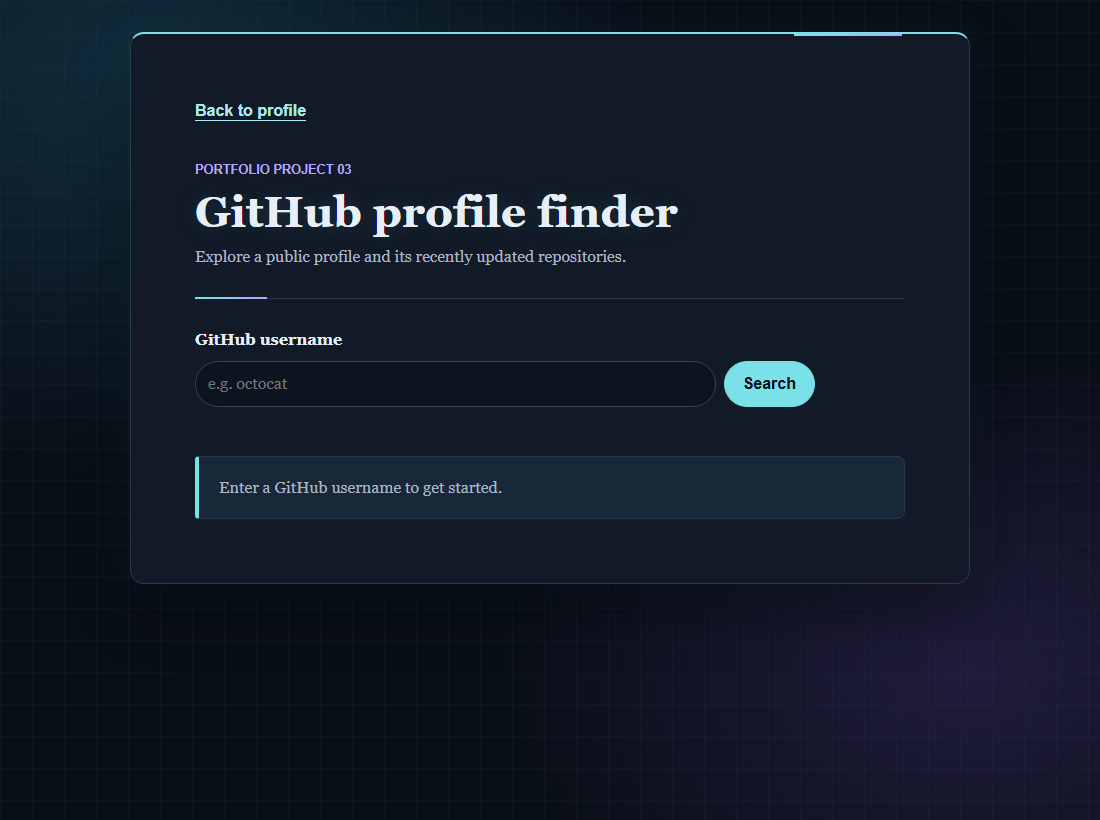
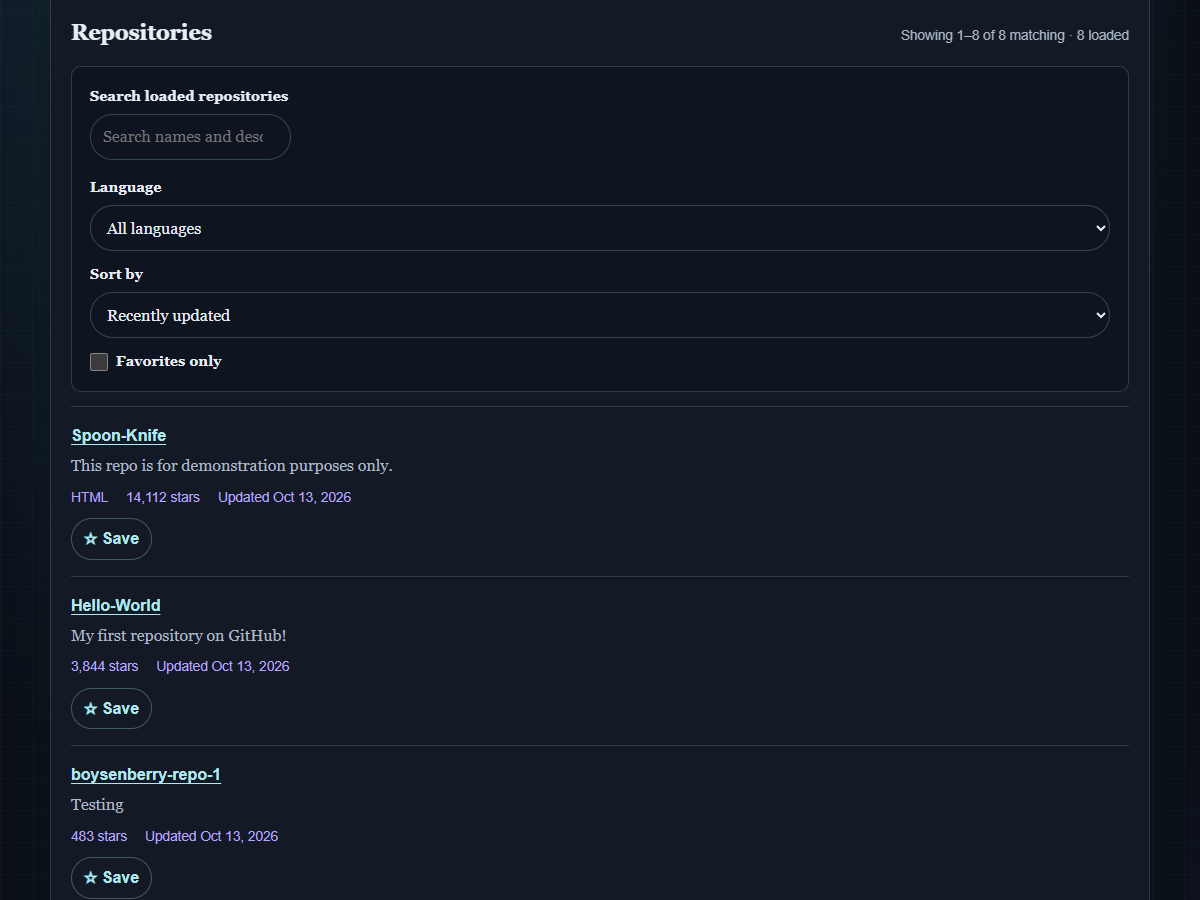
Add files via upload

diff --git a/index.html b/index.html
@@ -117,12 +117,12 @@
             <img
               class="project-preview"
               src="github-finder.png"
-              alt="Screenshot of the GitHub profile finder displaying search results"
+              alt="Screenshot of the GitHub repository explorer showing search and filter controls with repository results"
             />
-            <h3>GitHub profile finder</h3>
+            <h3>GitHub repository explorer</h3>
             <p class="project-summary">
-              Search a GitHub username to explore profile details, stats, and
-              recently updated repositories.
+              Explore GitHub profiles and search, filter, sort, page through,
+              and save favorite repositories.
             </p>
             <ul class="project-tech" aria-label="Technologies used">
               <li>HTML</li>
